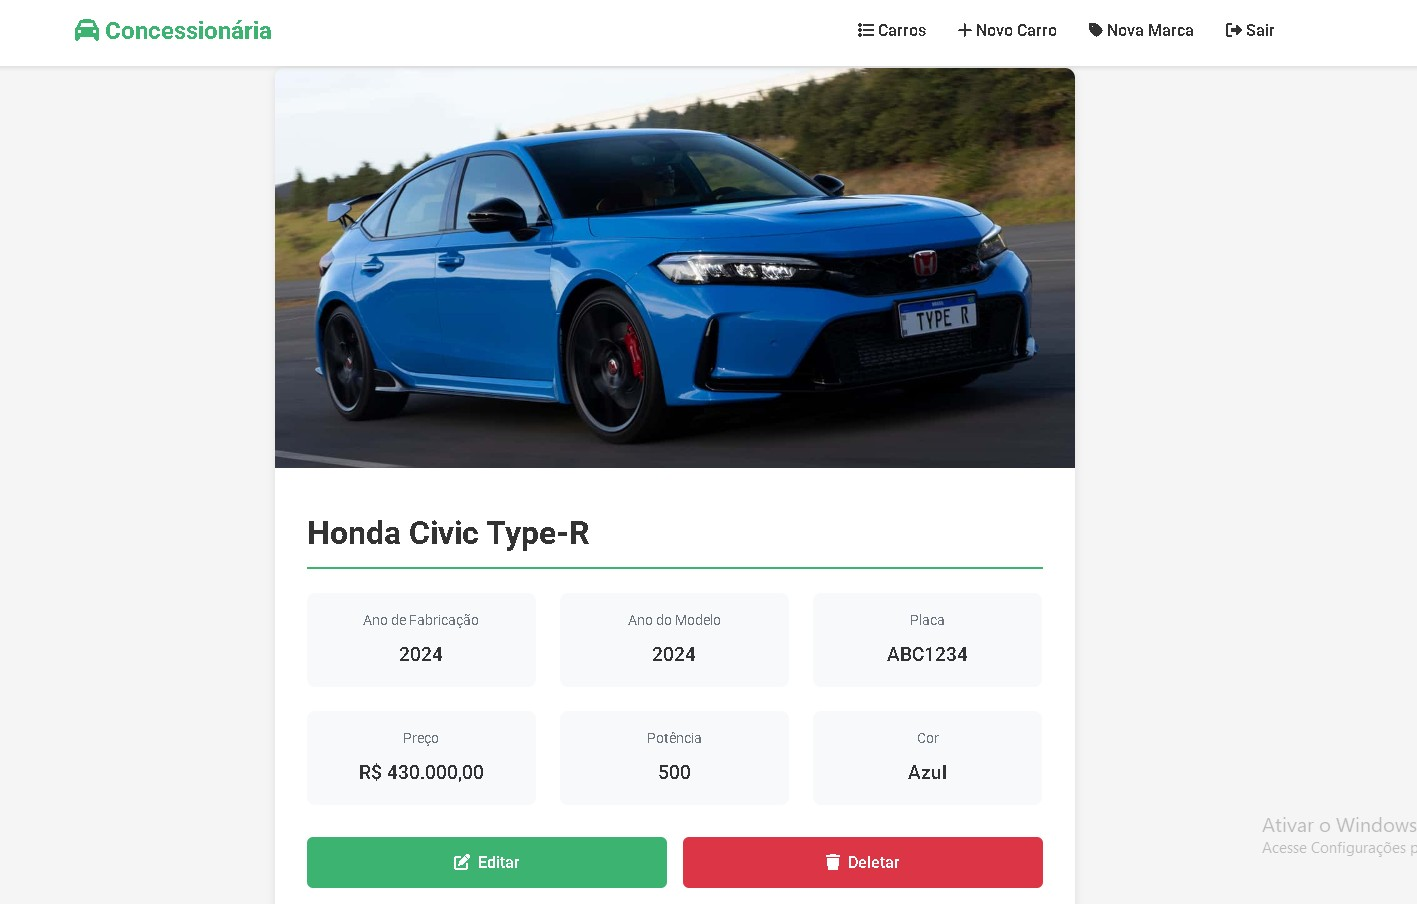
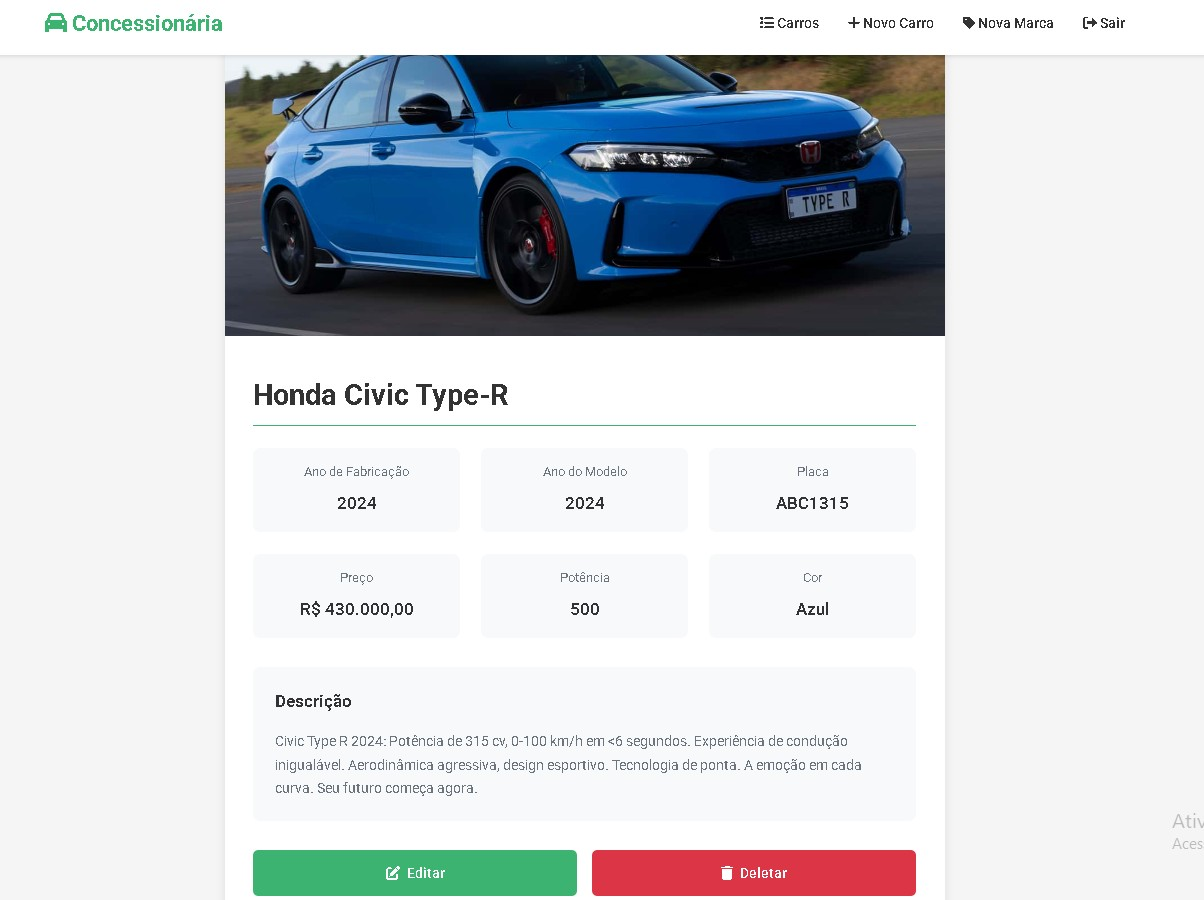
Ajustes API

diff --git a/ecom/signals.py b/ecom/signals.py
@@ -30,8 +30,11 @@ def car_post_delete(instance, sender, **kwargs):
 @receiver(pre_save, sender=Car)
 def car_pre_save(instance, sender, **kwargs):
     if not instance.description:
-        instance.description = get_gemini_client(
+        description = get_gemini_client(
             instance.model,
             instance.brand,
             instance.year_model
         )
+        if description:
+            instance.description = description
+

diff --git a/ecom/apps.py b/ecom/apps.py
@@ -4,3 +4,6 @@ from django.apps import AppConfig
 class EcomConfig(AppConfig):
     default_auto_field = 'django.db.models.BigAutoField'
     name = 'ecom'
+
+    def ready(self):
+        import ecom.signals
